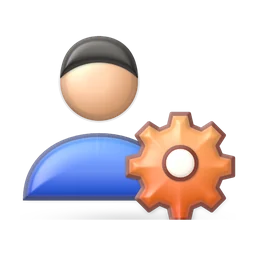
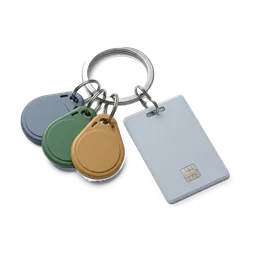
Pruebas industriales 5.26.3: íconos fotorrealistas del pedido 2, lotes 4 y 5 (17 del menú)

diff --git a/index.html b/index.html
@@ -20,7 +20,7 @@
   <!-- Rutas relativas: la app también se sirve en /pruebas-industriales/ dentro del Portal Pet's Table -->
   <link rel="apple-touch-icon" sizes="180x180" href="apple-touch-icon-180.png?v=21">
   <link rel="apple-touch-icon" sizes="512x512" href="apple-touch-icon.png?v=21">
-  <meta http-equiv="Content-Security-Policy" content="default-src 'self'; script-src 'self' https://cdn.jsdelivr.net 'sha256-4oBNT12c5hhFjb3GUeogNGxtFIKwkDf56ifw+Qz6dtM=' 'sha256-yVeiaoPj9pwm8TjqOGqEfs/mt+RsiYhsZxQgLIJKMnQ=' 'sha256-5wjs3Pfm/PQDRPnA0OQ+NLDB+OU2mIGxabEmfWkXHYk='; style-src 'self' 'unsafe-inline' https://fonts.googleapis.com; font-src https://fonts.gstatic.com; img-src 'self' data: blob: https://portal-petstable.vercel.app https://domumnsezocubigfqwry.supabase.co; connect-src 'self' https://domumnsezocubigfqwry.supabase.co wss://domumnsezocubigfqwry.supabase.co; manifest-src 'self'; worker-src 'self'; base-uri 'self'; form-action 'self'; object-src 'none'">
+  <meta http-equiv="Content-Security-Policy" content="default-src 'self'; script-src 'self' https://cdn.jsdelivr.net 'sha256-4oBNT12c5hhFjb3GUeogNGxtFIKwkDf56ifw+Qz6dtM=' 'sha256-EfsAuuuP1cnrmWRTgElni5goMjHDTunf837KVxgp4J0=' 'sha256-Z9JEbsiiRrevGC/5GmA79ycJxYMUdVH+EqK6rbnHliU='; style-src 'self' 'unsafe-inline' https://fonts.googleapis.com; font-src https://fonts.gstatic.com; img-src 'self' data: blob: https://portal-petstable.vercel.app https://domumnsezocubigfqwry.supabase.co; connect-src 'self' https://domumnsezocubigfqwry.supabase.co wss://domumnsezocubigfqwry.supabase.co; manifest-src 'self'; worker-src 'self'; base-uri 'self'; form-action 'self'; object-src 'none'">
[1 lines of base64/hex data omitted]
   <link rel="manifest" href="manifest.webmanifest">
 
@@ -3001,7 +3001,7 @@ html:not(.en-portal) .portal-btn { display: none !important; }
 window.PRUBIND_CONFIG = {
   SUPABASE_URL: "https://domumnsezocubigfqwry.supabase.co",
   SUPABASE_ANON_KEY: "sb_publishable_CDb37asQiekme1SuDnIANw_csZ5ZNRh",
-  APP_VERSION: "5.26.2"
+  APP_VERSION: "5.26.3"
 };</script>
   <script>(function () {
 'use strict';
@@ -3218,7 +3218,7 @@ const ICONOS_3D = new Set([ // Paquete de imágenes realistas (v1, 39 imágenes)
   'n_panel', 'n_perfil', 'n_usuarios', 'paquete', 'parametros', 'personas', 'pruebas', 'receta', 'rechazada', 
   'registro', 'reloj', 'responsable', 'sin_conexion',
 ]);
-const ICO3D_VER = '4';
+const ICO3D_VER = '5';
 function con3d(n) { return !!n && ICONOS_3D.has(n); }
 document.addEventListener('error', (e) => {
   const img = e.target;

diff --git a/public/js/config.js b/public/js/config.js
@@ -7,5 +7,5 @@
 window.PRUBIND_CONFIG = {
   SUPABASE_URL: "https://domumnsezocubigfqwry.supabase.co",
   SUPABASE_ANON_KEY: "sb_publishable_CDb37asQiekme1SuDnIANw_csZ5ZNRh",
-  APP_VERSION: "5.26.2"
+  APP_VERSION: "5.26.3"
 };
